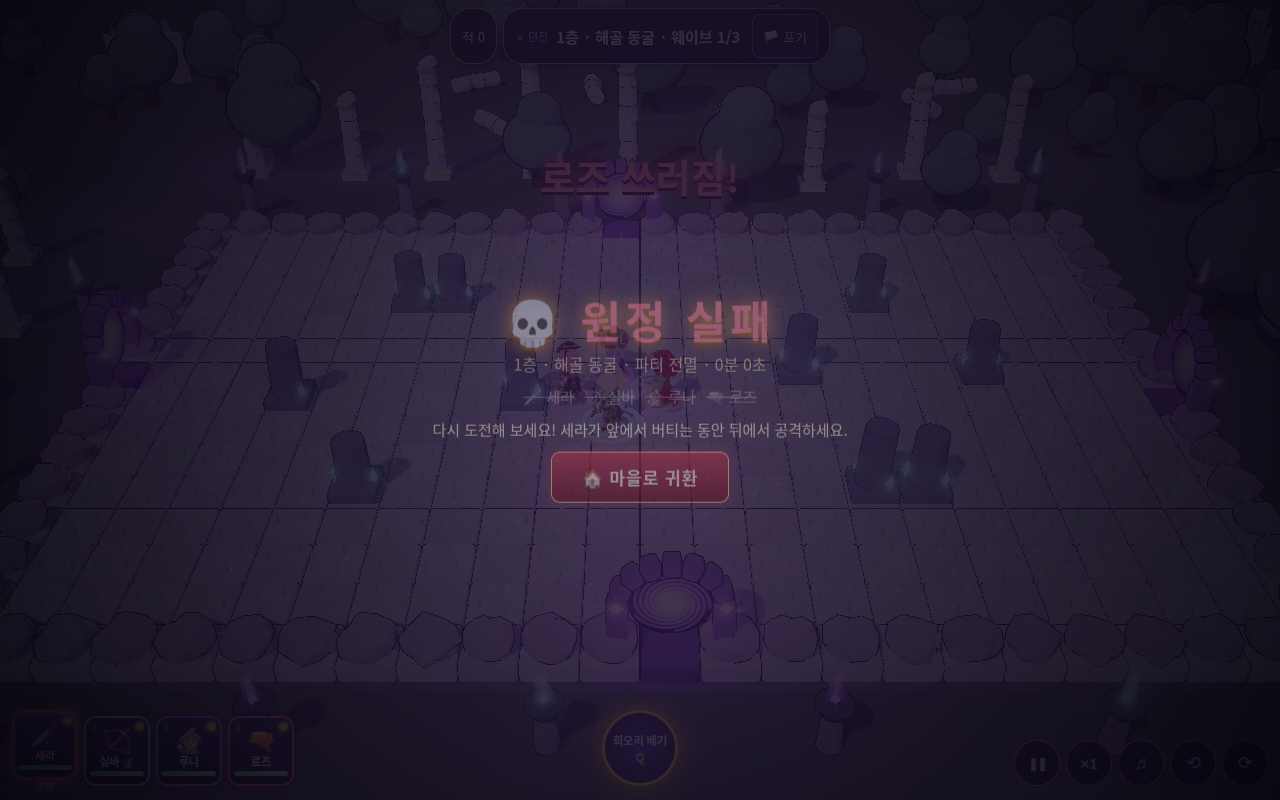
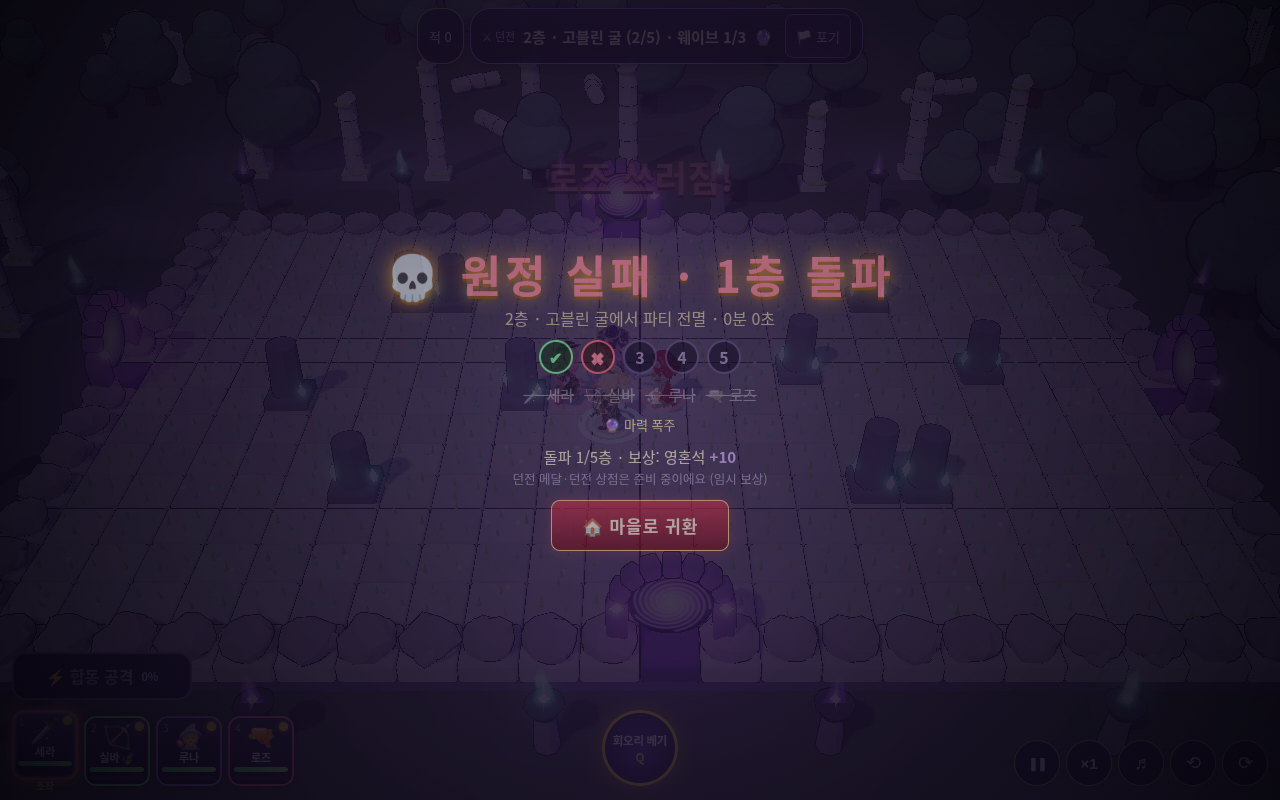
던전: 5층 임시 보스 처치 때 장비 드롭 안내가 뜨지만 지급은 안 되던 문제 → 던전에서는 보스 장비 드롭 없음

Changed region(s): [[0.2812, 0.3125, 0.7188, 0.6875], [0.4375, 0.0312, 0.5625, 0.0625]]

diff --git a/src/monsters/enemy.js b/src/monsters/enemy.js
@@ -86,7 +86,7 @@ function killEnemy(e) {
   if (e.E.boss) { G.shake = 1.1; emit(PB, p.x, p.y, p.z, 60, 0xff8a3a, 12, 1.2, -3, 3); banner(`${e.E.n} 처치!`, '#ffd23a'); Snd.play('boom', { pos: p, force: true }); later(.6, () => Snd.play('victory', { force: true, exact: true })); }
   if (e.E.elite) G.eliteKills = (G.eliteKills || 0) + 1; // 하드 정예 처치 → 클리어 보너스 영혼석
   if (e.E.boss && G.perm) (G.runBossKills ||= []).push(G.wave); // 고유 ③ 숨은 보물 / 도전 모드 정수 판정용 (판 종료 applyRun)
-  if (e.E.boss && G.perm && G.hero && (G.forceDrop || Math.random() < BOSS_DROP)) { const it = randomItem(G.hero.cls, bossOdds(G.wave + (G.hard && STAGE ? 5 * HARD.tierUp : 0)), Math.random, undefined, G.dropCh); /* 스테이지 = 그 챕터 세트, 도전 모드 = 열린 챕터 무작위 */ (G.runDrops ||= []).push(it); lootFx(p, it.g); // 보스 장비 드롭 (마을 출정 때만)
+  if (e.E.boss && G.perm && G.hero && !G.dungeon && (G.forceDrop || Math.random() < BOSS_DROP)) { const it = randomItem(G.hero.cls, bossOdds(G.wave + (G.hard && STAGE ? 5 * HARD.tierUp : 0)), Math.random, undefined, G.dropCh); /* 스테이지 = 그 챕터 세트, 도전 모드 = 열린 챕터 무작위 */ (G.runDrops ||= []).push(it); lootFx(p, it.g); // 보스 장비 드롭 (마을 출정 때만 · 던전 원정 제외: 던전 보상은 5단계 던전 메달)
     later(1.2, () => { banner(`✦ ${GRADES[it.g].n} 장비 획득: ${it.n} ✦`, GRADES[it.g].c, 2600); Snd.play('levelUp', { force: true }); Snd.play('coins', { force: true }); }); }
   G.gold += e.E.gold; G.stats.goldEarned += e.E.gold; G.stats.kills[e.type] = (G.stats.kills[e.type] || 0) + 1; popCoins(p, Math.ceil(e.E.gold / 2)); Snd.play(e.E.fly ? 'poof' : 'bones', { pos: p, rate: e.E.boss ? .6 : 1, force: e.E.boss }); e.dying = e.E.fly ? .7 : 1.6;
   if (!e.E.fly) play(e.m, 'Death_A', { once: true, fade: .1 });
